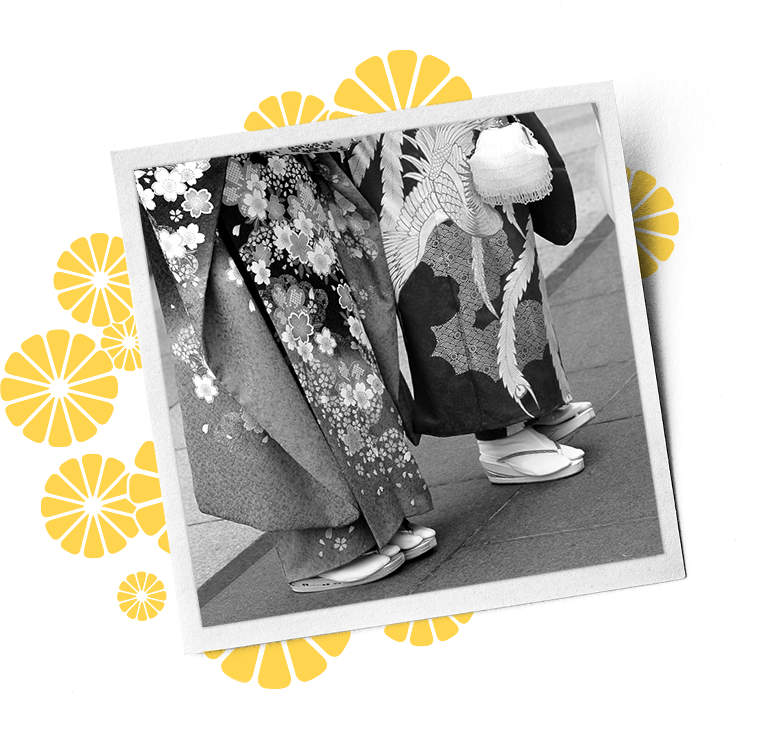
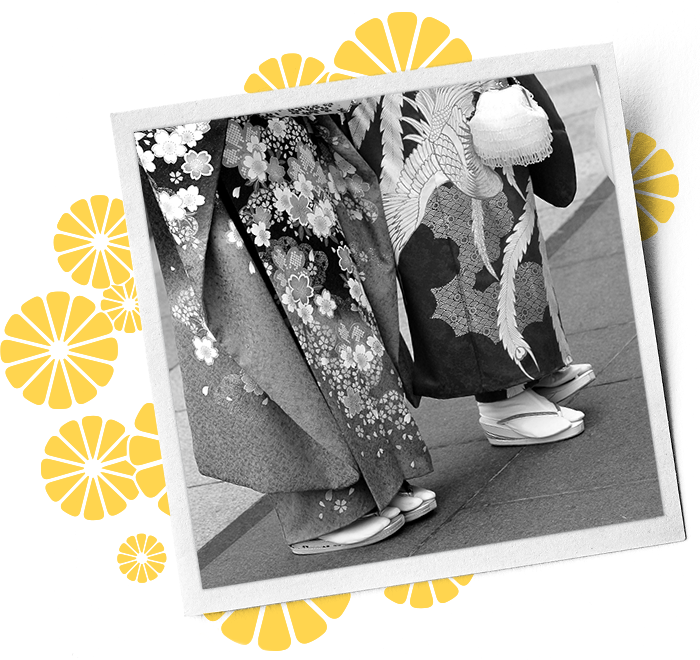
3 views ready for Staging
3 views ready for Staging

diff --git a/src/sass/custom/_mediaqueries.scss b/src/sass/custom/_mediaqueries.scss
@@ -236,27 +236,6 @@
 
 @media only screen and (min-width: 650px) and (max-width: 1024px) {
   .content-wrapper {
-    h1 {
-      font-size: 68px;
-    }
-    // h2 {
-    //   font-size: 50px;
-    // }
-    // h3 {
-    //   font-size: 35px;
-    // }
-    // h4 {
-    //   font-size: 40px;
-    // }
-    // h5 {
-    //   font-size: 30px;
-    // }
-    // h6 {
-    //   font-size: 20px;
-    // }
-    // p {
-    //   font-size: 18px;
-    // }
     .one {
       order: 1;
     }
@@ -288,6 +267,7 @@
       padding: 7% 0 0 40%;
 
       h1 {
+        font-size: 68px;
         width: 80%;
       }
     } // hero-text
@@ -431,12 +411,21 @@
   } // blog
 } // min 650 to max 1024 - Tablet
 @media only screen and (min-width: 830px) and (max-width: 1024px) {
+  .hero {
+    .hero-text {
+      h1 {
+        width: 80%;
+        font-size: 68px;
+      }
+    } // hero-text
+  } // hero
   .history {
     .history-img {
       left: -14px;
 
       img {
         margin-left: -160px;
+        margin-top: -25px;
         width: 740px;
         max-width: 500px;
       }

diff --git a/dest/css/styles.css b/dest/css/styles.css
@@ -837,9 +837,6 @@ body {
 }
 
 @media only screen and (min-width: 650px) and (max-width: 1024px) {
-  .content-wrapper h1 {
-    font-size: 68px;
-  }
   .content-wrapper .one {
     -webkit-box-ordinal-group: 2;
     -ms-flex-order: 1;
@@ -877,6 +874,7 @@ body {
     padding: 7% 0 0 40%;
   }
   .hero .hero-text h1 {
+    font-size: 68px;
     width: 80%;
   }
   .history {
@@ -1011,11 +1009,16 @@ body {
 }
 
 @media only screen and (min-width: 830px) and (max-width: 1024px) {
+  .hero .hero-text h1 {
+    width: 80%;
+    font-size: 68px;
+  }
   .history .history-img {
     left: -14px;
   }
   .history .history-img img {
     margin-left: -160px;
+    margin-top: -25px;
     width: 740px;
     max-width: 500px;
   }

diff --git a/src/css/styles.css b/src/css/styles.css
@@ -752,9 +752,6 @@ body {
 }
 
 @media only screen and (min-width: 650px) and (max-width: 1024px) {
-  .content-wrapper h1 {
-    font-size: 68px;
-  }
   .content-wrapper .one {
     order: 1;
   }
@@ -784,6 +781,7 @@ body {
     padding: 7% 0 0 40%;
   }
   .hero .hero-text h1 {
+    font-size: 68px;
     width: 80%;
   }
   .history {
@@ -901,11 +899,16 @@ body {
 }
 
 @media only screen and (min-width: 830px) and (max-width: 1024px) {
+  .hero .hero-text h1 {
+    width: 80%;
+    font-size: 68px;
+  }
   .history .history-img {
     left: -14px;
   }
   .history .history-img img {
     margin-left: -160px;
+    margin-top: -25px;
     width: 740px;
     max-width: 500px;
   }
